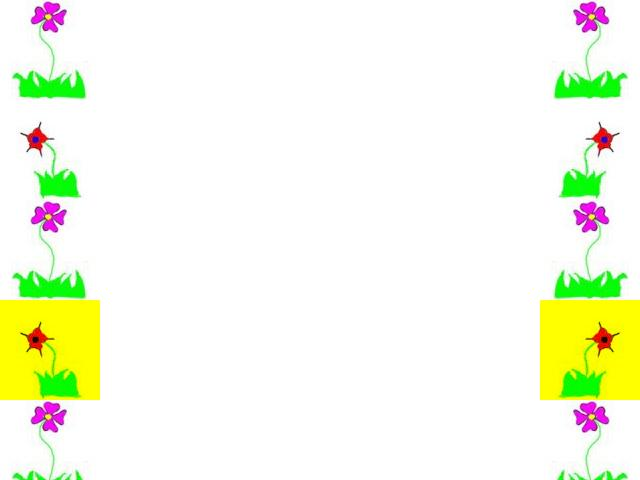
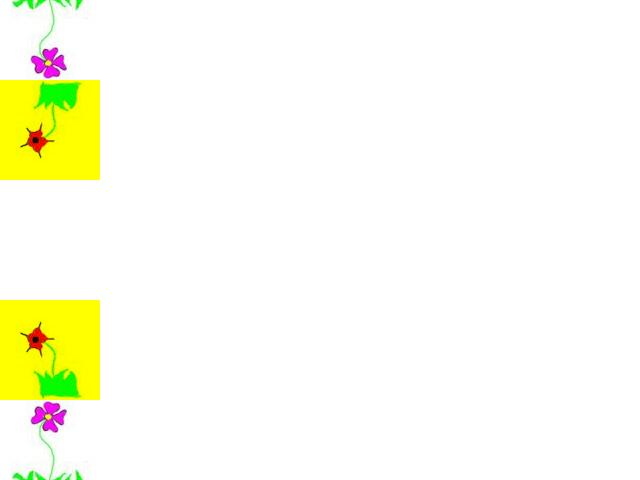
ok

Changed region(s): [[0.8438, 0.25, 1.0, 1.0], [0.0, 0.0, 0.1562, 0.625], [0.8438, 0.0, 1.0, 0.2188]]

diff --git a/pixlab/Picture.java b/pixlab/Picture.java
@@ -343,9 +343,35 @@ public class Picture extends SimplePicture
       }
     }   
   }
-
+  
+   public void copy(Picture fromPic, 
+                 int startRow, int startCol,
+                 int fSR,      int fSC,
+                 int fER,      int fEC)
+  {
+    Pixel fromPixel = null;
+    Pixel toPixel = null;
+    Pixel[][] toPixels = this.getPixels2D();
+    Pixel[][] fromPixels = fromPic.getPixels2D();
+    for (int fromRow = fSR, toRow = startRow; 
+         fromRow < fER &&
+         toRow < toPixels.length; 
+         fromRow++, toRow++)
+    {
+      for (int fromCol = fSC, toCol = startCol; 
+           fromCol < fEC &&
+           toCol < toPixels[0].length;  
+           fromCol++, toCol++)
+      {
+        fromPixel = fromPixels[fromRow][fromCol];
+        toPixel = toPixels[toRow][toCol];
+        toPixel.setColor(fromPixel.getColor());
+      }
+    }   
+  }
+ 
   /** Method to create a collage of several pictures */
-  public void createCollage()
+  public void myCollage()
   {
     Picture flower1 = new Picture("flower1.jpg");
     Picture flower2 = new Picture("flower2.jpg");
@@ -357,11 +383,10 @@ public class Picture extends SimplePicture
     this.copy(flowerNoBlue,300,0);
     this.copy(flower1,400,0);
     this.copy(flower2,500,0);
-    this.mirrorVertical();
+    this.mirrorHorizontalBotToTop();
     this.write("collage.jpg");
   }
-  
-  
+    
   /** Method to show large changes in color 
     * @param edgeDist the distance for finding edges
     */

diff --git a/pixlab/PictureTester.java b/pixlab/PictureTester.java
@@ -89,9 +89,18 @@ public class PictureTester
   public static void testCollage()
   {
     Picture canvas = new Picture("640x480.jpg");
-    canvas.createCollage();
+    canvas.myCollage();
     canvas.explore();
   }
+  
+  
+    public static void testCopy()
+  {
+    Picture canvas = new Picture("640x480.jpg");
+    canvas.myCollage();
+    canvas.explore();
+  }
+  
   
   /** Method to test edgeDetection */
   public static void testEdgeDetection()
@@ -133,7 +142,7 @@ public class PictureTester
     testMirrorGull();
     testMirrorDiagonal();
     testCollage();
-    //testCopy();
+    testCopy();
     //testEdgeDetection();
     //testEdgeDetection2();
     //testChromakey();
